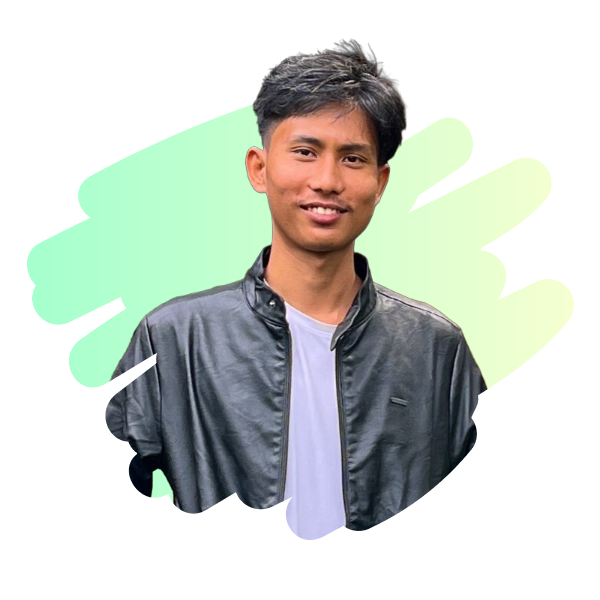
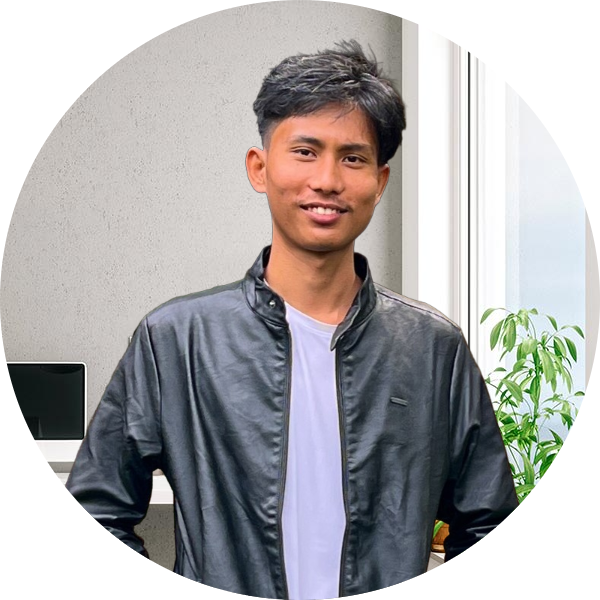
created hero section of landing page

diff --git a/components/landing-page/hero-section.tsx b/components/landing-page/hero-section.tsx
@@ -1,5 +1,34 @@
-import React from "react"
+import Image from "next/image"
+import heroImage from "@/assets/profile-pic.png"
+import { Button } from "../ui/button"
 
 export default function HeroSection() {
-  return <div>hero-section</div>
+  return (
+    <main className="flex h-[calc(100vh-60px)] max-w-7xl mx-auto">
+      <section className="h-full grid place-items-center basis-3/5">
+        <div>
+          <h1 className="font-bold text-5xl tracking-wide leading-tight my-4">
+            Hi, I am Anish, <br />
+            Creative Web Developer
+          </h1>
+          <p className="w-[500px] my-5">
+            Lorem ipsum, dolor sit amet consectetur adipisicing elit. Deleniti
+            doloribus sunt molestias laboriosam eligendi excepturi dolorum
+            cupiditate veritatis nisi ab.
+          </p>
+          <Button>Download Resume</Button>
+        </div>
+      </section>
+      <section className="basis-2/5 grid place-items-center">
+        <div className="relative">
+          <div className="absolute  bg-sky-100 rounded-full h-[248px] w-[248px] top-0 right-0 "></div>
+          <Image
+            className="relative h-60 w-60 object-cover rounded-full"
+            src={heroImage}
+            alt="Hero section image"
+          />
+        </div>
+      </section>
+    </main>
+  )
 }

diff --git a/components/nav/navbar.tsx b/components/nav/navbar.tsx
@@ -58,7 +58,7 @@ export default function Navbar() {
         </button>
         <div
           ref={navbarRef}
-          className={`absolute bg-slate-900  top-16 left-0 w-full md:static md:block md:w-auto ${
+          className={`absolute   top-16 left-0 w-full md:static md:block md:w-auto ${
             isOpen ? "block p-5" : "hidden"
           }`}
           id="navbar-default"

diff --git a/app/page.tsx b/app/page.tsx
@@ -1,9 +1,10 @@
+import HeroSection from "@/components/landing-page/hero-section"
 import Image from "next/image"
 
 export default function Home() {
   return (
-    <main className="flex min-h-screen flex-col items-center justify-between ">
-      Blog
-    </main>
+    <>
+      <HeroSection />
+    </>
   )
 }

diff --git a/app/contact/page.tsx b/app/contact/page.tsx
@@ -1,0 +1,5 @@
+import React from "react"
+
+export default function ContactPage() {
+  return <div>ContactPage</div>
+}

diff --git a/components/landing-page/recent-posts.tsx b/components/landing-page/recent-posts.tsx
@@ -1,0 +1,5 @@
+import React from "react"
+
+export default function RecentPosts() {
+  return <div>recent-post</div>
+}
